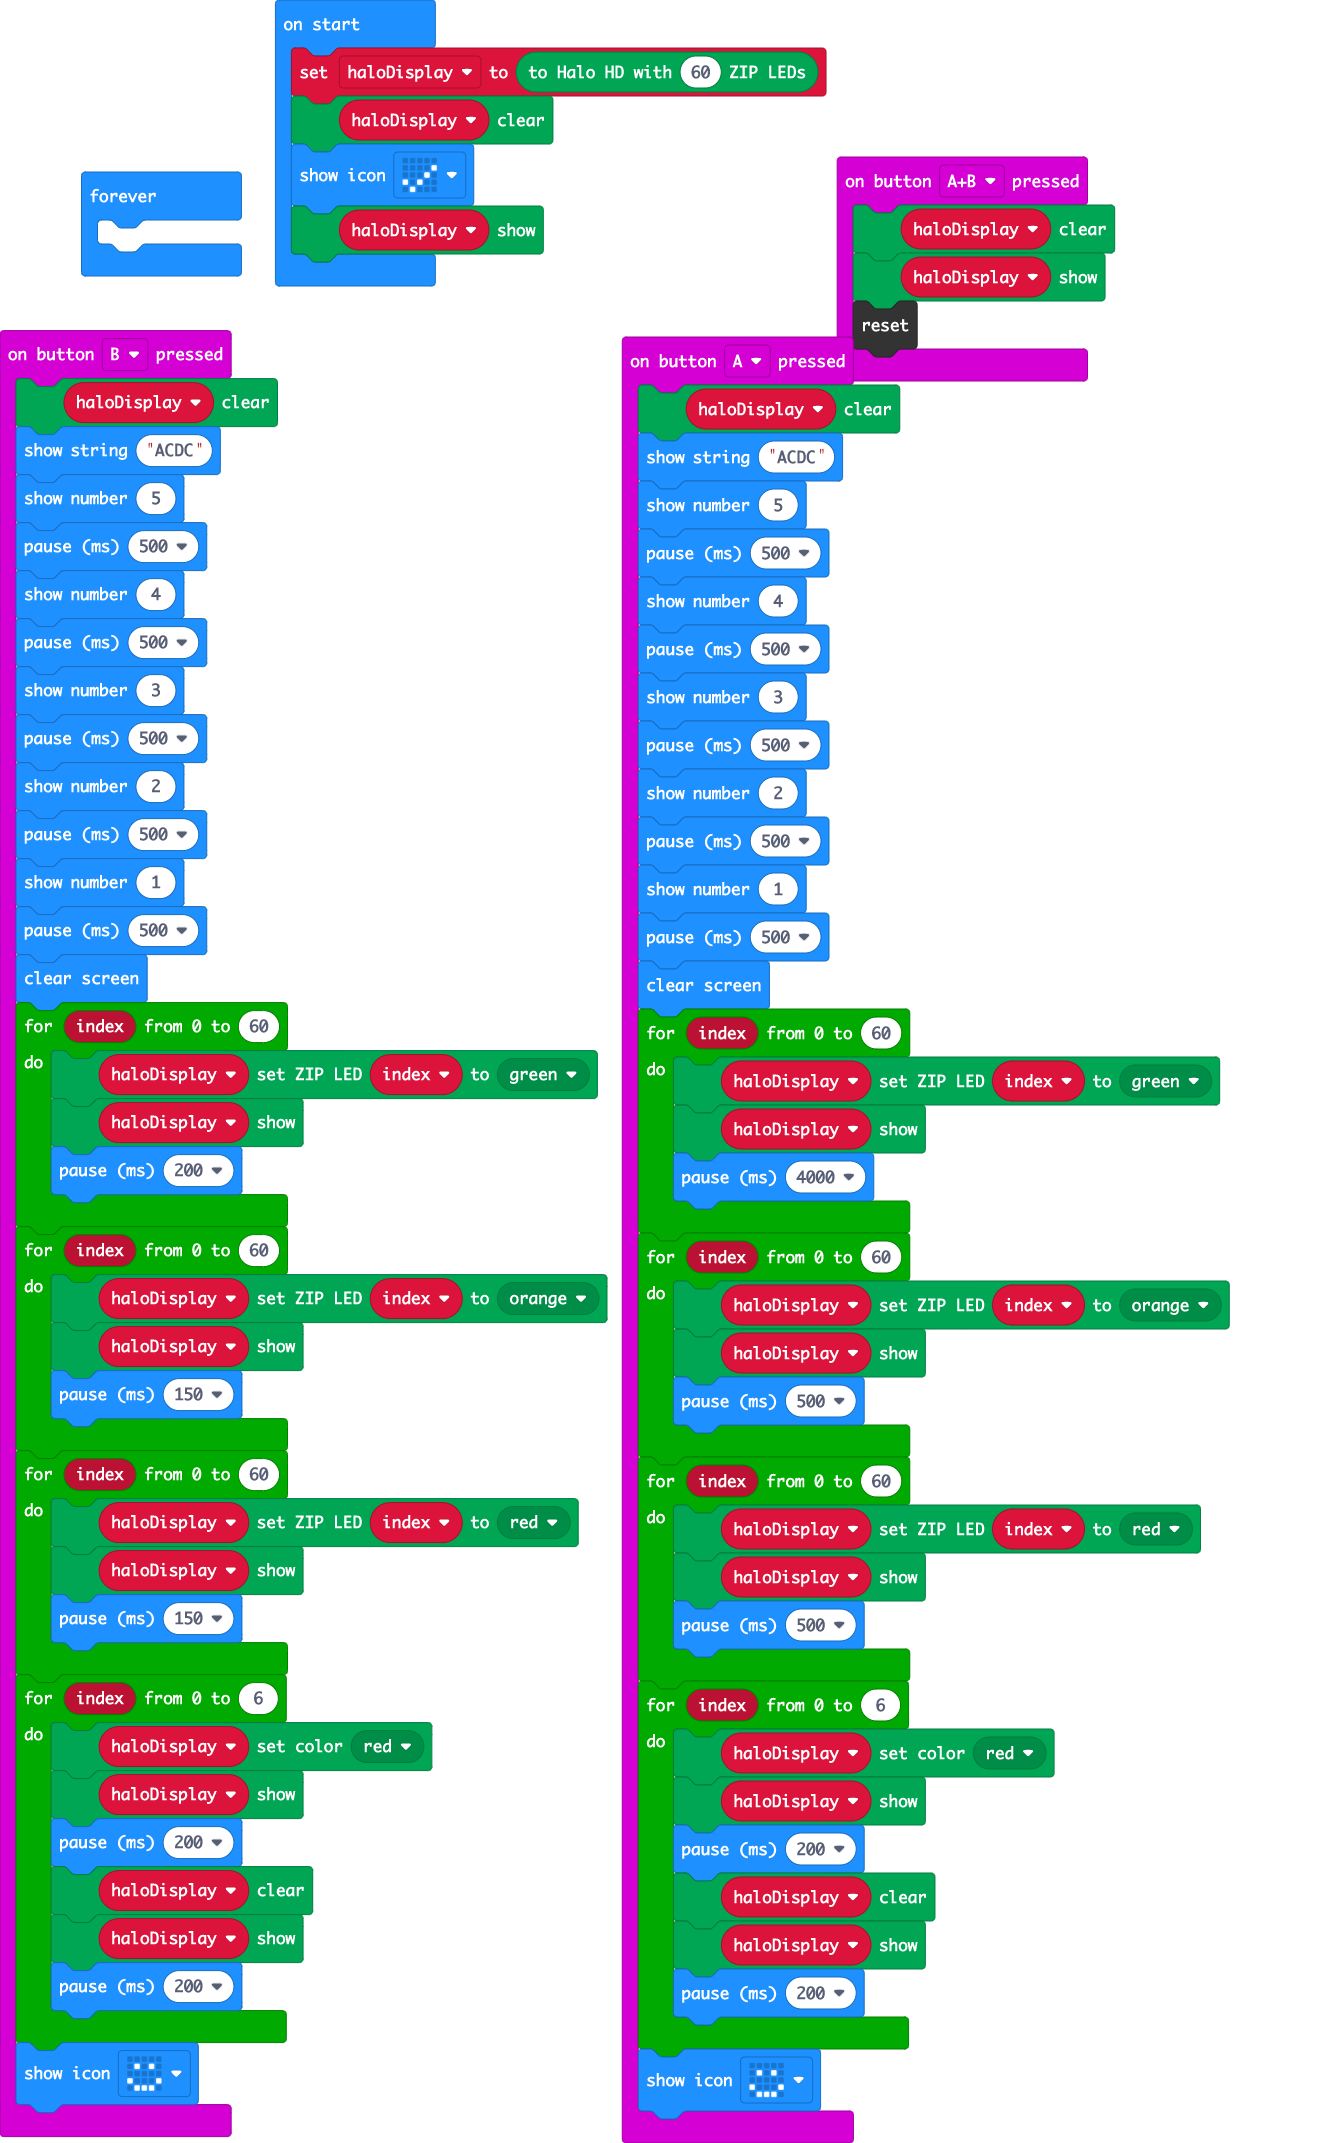
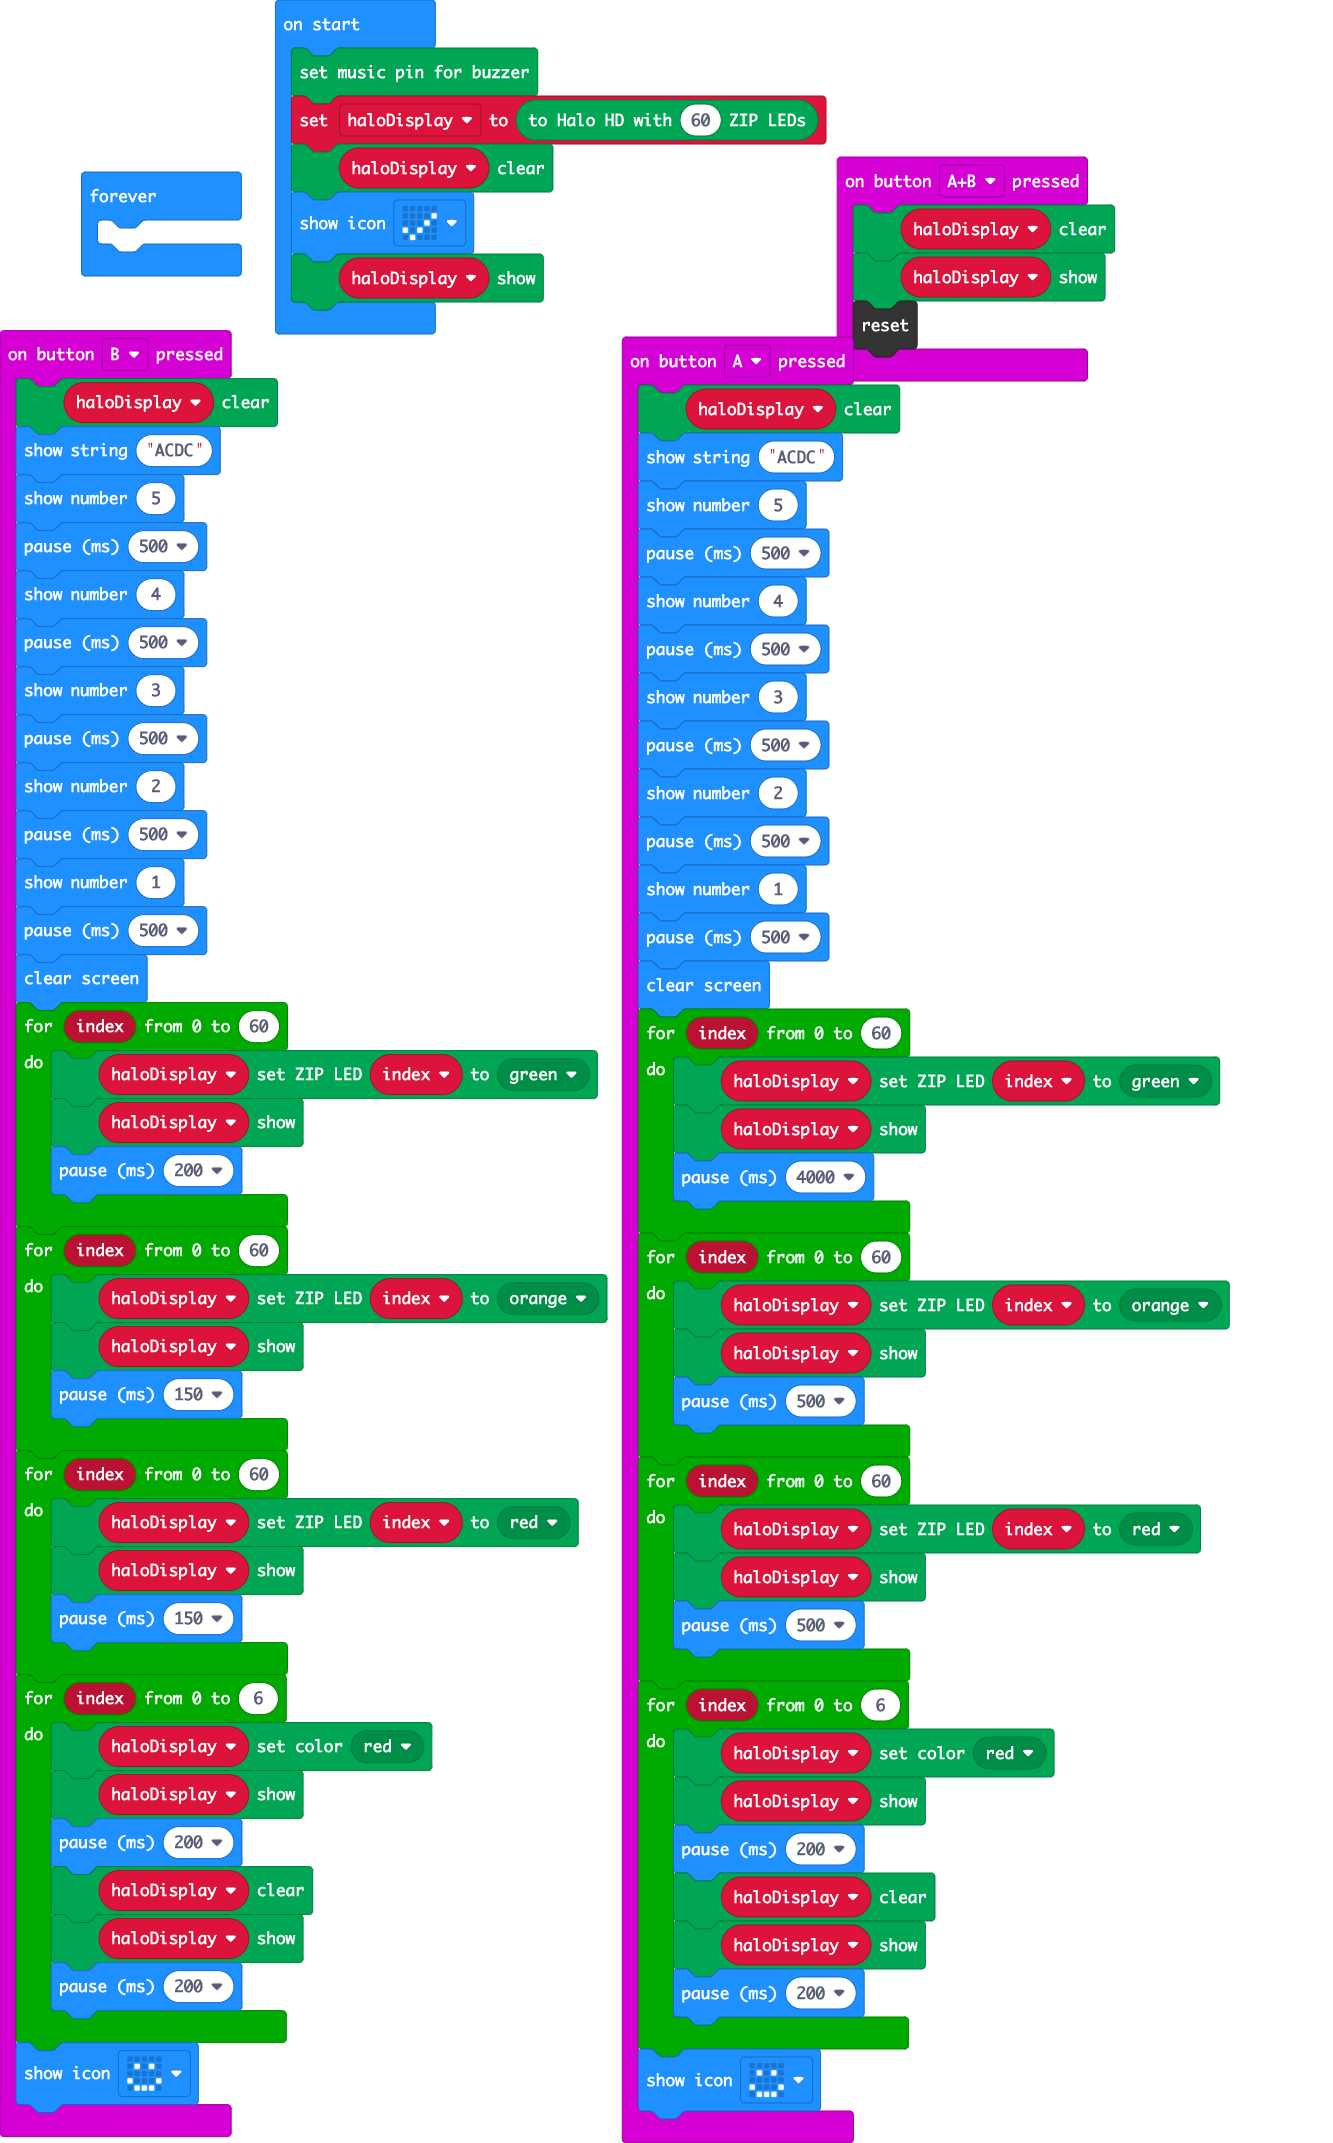
correct values

Changed region(s): [[0.1845, 0.0, 0.6459, 0.154]]

diff --git a/main.ts b/main.ts
@@ -82,6 +82,7 @@ input.onButtonPressed(Button.B, function () {
     basic.showIcon(IconNames.Happy)
 })
 let haloDisplay: kitronik_halo_hd.ZIPHaloHd = null
+kitronik_halo_hd.setBuzzerPin()
 haloDisplay = kitronik_halo_hd.createZIPHaloDisplay(60)
 haloDisplay.clear()
 basic.showIcon(IconNames.Yes)
